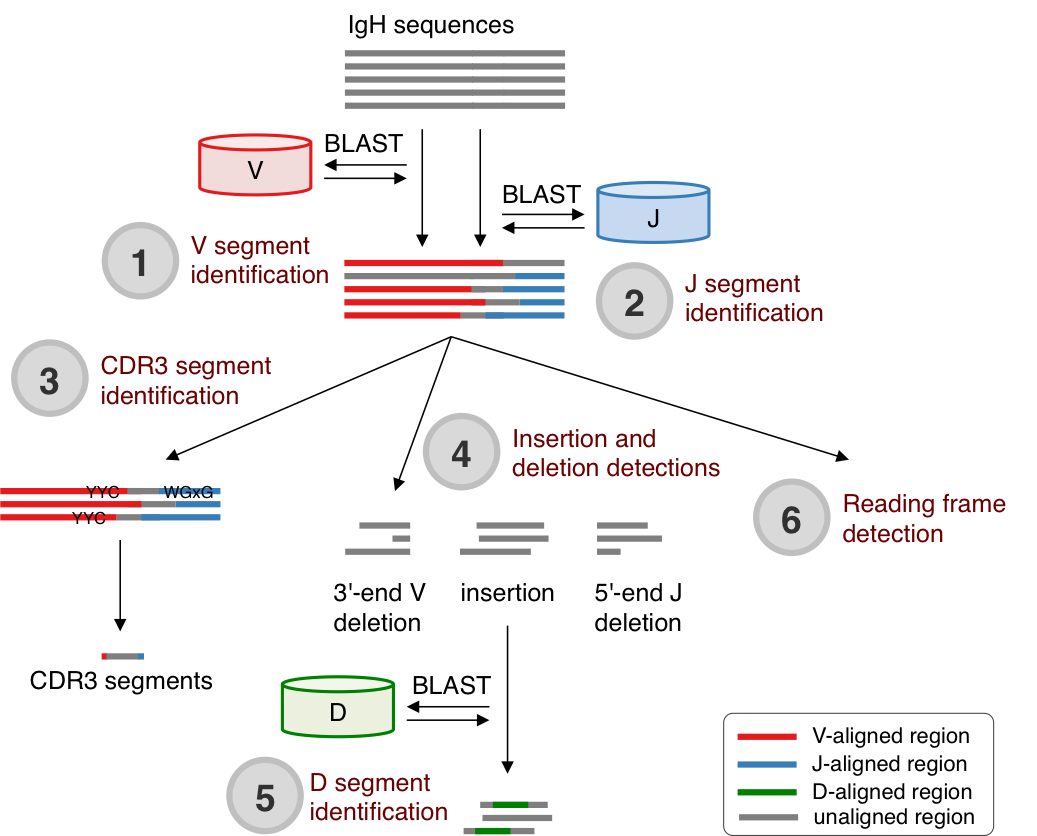
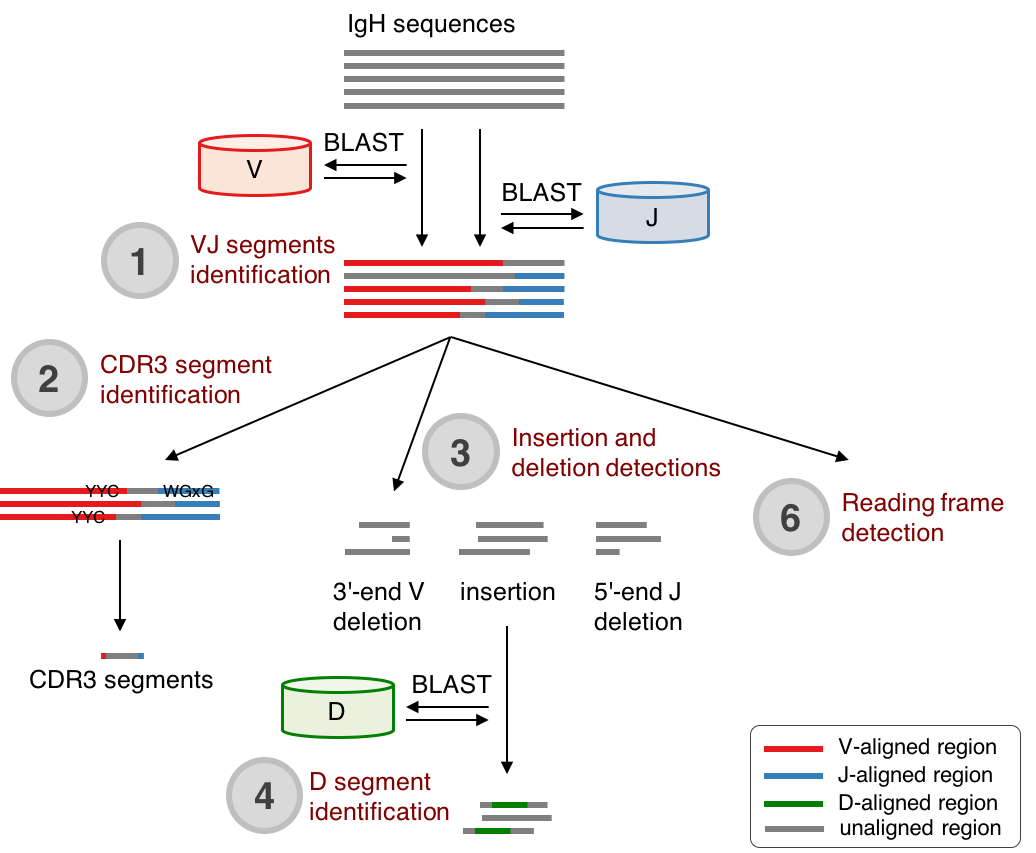
minor update.

diff --git a/docs/implementation.rst b/docs/implementation.rst
@@ -3,50 +3,127 @@ Implementation
 ==============
 
 
-PyDAIR offers two action modes, :command:`parse` and :command:`stats`.
-The :command:`parse` action is used to identify V, D, J and CDR3 segments in IgH sequences with given Ig-Seq data.
-On the other hand, the :command:`stats` action is used to summarize and visualize the analysis results.
 
+parse mode
+==========
 
-
-parse action
-============
-
-:command:`parse` command is used to identify V, D, J, and CDR3 segments,
-and detect the indels around V-D and D-J junctions.
-
-#. **V segment identification** To identify V segment,
-   PyDAIR aligns each IgH sequence against user-defined BLAST database of V gene with :command:`blastn`.
-   The best matching V gene is selected.
-#. **J segment identification** To identify J segment,
-   PyDAIR aligns each IgH sequence against user-defined BLAST database of J gene with :command:`blastn`.
-   The best matching J gene is selected.
-#. **CDR3 segment identification** To identify CDR3 segment,
-   PyDAIR search for YYC and WGxG motifs using regular expression matching.
-#. **Indels detection**  To identify insertion and deletion on V-D and D-J junctions,
-   PyDAIR calculates the number of unaligned bases from the end of V and the start of J genes.
-#. **D segment identification** To identify D segment,
-   PyDAIR aligns the each insertion segment sequence against user-defined BLAST database of D gene with :command:`blastn`.
-   The best matching D gene is selected.
-#. **Open reading frame detection**
-   PyDAIR searches for the start codon (ATG) and the stop codons (TAG, TAA, and TGA).
-   PyDAIR tries the three possible reading frames to determine ORF.
-   The sequence is defined as *productive* if one of reading frames dose not contain any stop codons.
-   Otherwise, the sequence is defined as *unproductive*.
-
+The parse mode is designed for identifying VDJ gene segments and CDR-H3 region,
+and detecting indel among VDJ junctions. PyDAIR internally calls BLAST.
+User-defined VDJ database are required prior to the use of BLAST. 
 
 .. image:: images/pydair-parse.png
     :align: center
+
+
+
+
+
+
+
+#. **V and J assignment** 
+   All sequences were aligned by using BLAST (i.e, blastn on NCBI BLAST+)
+   to use-defined V- and J- gene segment databases with match gain of +3,
+   mismatch cost of -3, gap-open penalty of 6, and gap-extend penalty of 6.
+   The optimal alignments for V- (V-aligned region) and J- (J-aligned region)
+   gene segments were assigned for each IgH sequence.
+   Only sequences with determined V- and –J assignments were kept for downstream analysis. 
+ 
+#. **CDR-H3 determination**
+   CDR-H3 is defined as a region between conserved residues of V (C in 2nd-CYS motif)
+   and J (W in WGxG motif of J) (North et al. 2011; Giudicelli 2006; Savan et al. 2005).
+   Each IgH sequence was translated into amino acid (aa) sequence,
+   and was searched for the two motifs using regular expression matching.
+   In detail, the YYC motif was sought from the 5’ end of the J-aligned region
+   in 3’ to 5’ direction and the WGxG motif was searched from the 3’ end of the
+   V-aligned region in 5’ to 3’ direction, as illustrated in Figure S3 B.
+   It is worth noting that the motif searches were executed separately,
+   that iteration was performed for the three possible reading frames one at a time.
+   It is therefore possible that the reading frame of YYC differs from that of WGxG,
+   which results in out-of-frame CDR-H3 nucleotide (nt) sequence (length of sequence
+   is not a multiple of three).
+   In this case, CDR-H3 aa sequence was defined as the sequence translating from the
+   first nucleotide from CDR-H3 nt sequence.
+   In addition, PyDAIR allows users to define species-specific motifs when determining
+   CDR3 region by adjusting ‘--v-motif’ and ‘--j-motif’ options.
+    .. image:: images/pydair-parse-motif.png
+        :align: center
+
+#. **Indel detection**
+   As shown in Figure S3 C, once the V- or J- aligned region has been assigned
+   (the local alignment), PyDAIR adds expected nucleotides of V or J gene sequence
+   adjacent to the local alignment to form a global alignment.
+   The number of deletions is calculated by counting bases starting from the end of
+   the last three consecutive nucleotides within global alignment and finishing at
+   the last nucleotide of expected V or J gene.
+   Finally, the sequence found between the 3’ end of V and the 5’ end of J is defined
+   as a non-template V-J insertion region. 
     
+    .. image:: images/pydair-parse-indels.png
+        :align: center
+
+#. **D assignment**
+   The V-J insertion region contains the D gene segment used.
+   PyDAIR employs the V-J insertion region for aligning with the user-defined D gene database.
+   A V-J insertion sequence was retained if it contained at least 4 nucleotides
+   for D gene identification. Parameters used were shown in Table S2. 
+
+#. **Reading frame detection**
+   Open reading frame (ORF) sequence was determined for each alignment by iteratively
+   searching for stop codons (i.e., TAG, TAA, and TGA) on the three possible reading
+   frames with regular expression matching.
+   Iteration was performed until at least one of the reading frames containing no stop
+   codons could be found.
+   At this point, the IgH sequence was defined as productive, otherwise,
+   ‘unproductive’ was assigned. 
 
 
-stats action
-============
 
-:command:`stats` command is used for summarizing V, D, and J segment usage frequencies,
-and the distribution of length of CDR3 segment.
-The summarized results are saved into TSV (tab-delimited) files.
-In addition, the summarized results are visualized with some charts in an HTML report.
+stats mode
+==========
+
+The stats mode provides a number of functions for summarizing and visualizing analysis
+results from pars mode; it summarizes:
+(i) usage frequencies of VDJ gene segments;
+(ii) frequencies of VDJ combinations, rarefaction analysis for estimating the
+saturation of VDJ combinations; 
+(iii) length distributions of CDR-H3 nt and aa sequences;
+and (iv) indel distribution within V-D and D-J junctions.
+Finally, the mode generates an HTML report by incorporating
+plot.ly API (https://plot.ly/) for visualizing summarized results.
+
+
+
+sim mode
+========
+
+The sim mode is used for artificial IgH repertoire generation.
+In some cases, BLAST might give weak results when the local database consisting
+of highly similar sequences, thus,
+it is recommended to perform procedures in sim and eval modes for evaluating
+performance of PyDAIR prior to data analysis. 
+
+The sim mode generates artificial IgH repertoire as follows:
+
+1) Randomly sample each V, D, and J gene segment from user-defined databases.
+2) Trim bases at each putative junction boundary i.e., 5’- and 3’- end of
+   sampled V, D, and J gene segments. Default base number for trimming is shown in Table S5. 
+3) Randomly insert sampled bases from A, T, C, G into VDJ junctions wherein
+   VD represents bases being added to V-D junction and aDJ to D-J junction (Table S5). 
+4) Mutate each nucleotide in the sequence with probability of p (default 0.05).
+   Probabilities of mutation (substitution or deletion) are set to equal frequency
+   (i.e., the probability for each mutation is of 0.25).
+
+
+eval mode
+=========
+
+Evaluation of PyDAIR performance is performed using the eval mode by calculating
+the number of (in)correctly IgH sequences assigned for certain VDJ gene segments. 
+
+
+
+
+    
 
 
 

diff --git a/README.rst b/README.rst
@@ -17,6 +17,6 @@ and detects insertions and deletions on V-D and D-J junctions.
 
 
 * PyPI package: `PyPI <https://pypi.python.org/pypi/PyDAIR/>`_
-* Source code: `GitHub <https://github.com/bioinfoteam/PyDAIR>`_
+* Source code: `GitHub <https://github.com/biunit/PyDAIR>`_
 
 
